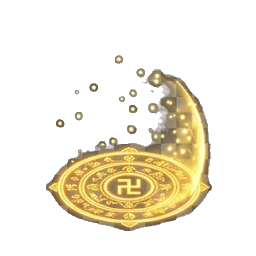
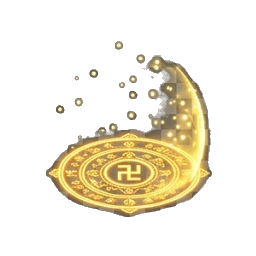
Use frame 4 exclusively with continuous rotation tween for La Han Tran aura

diff --git a/src/game/player.js b/src/game/player.js
@@ -582,34 +582,31 @@ export class Player {
   }
 
   /**
-   * Display a looping animated formation circle under the character's feet.
+   * Display a continuously rotating formation circle (frame-4) under the character's feet.
    * Follows the character as they move and remains visible while the buff is active.
-   * @param {string} [key="vfx-la-han-tran"]
+   * @param {string} [key="vfx-la-han-tran-frame4"]
    */
-  showFormation(key = "vfx-la-han-tran") {
+  showFormation(key = "vfx-la-han-tran-frame4") {
     if (!this.visual || typeof this.scene?.add?.sprite !== "function") return;
-    if (this.scene.textures?.exists && !this.scene.textures.exists(key)) return;
 
-    const animKey = `${key}-loop`;
-    if (this.scene.anims && !this.scene.anims.exists(animKey)) {
-      const texture = this.scene.textures?.get?.(key);
-      const frameTotal = texture?.frameTotal ?? 5;
-      const frameCount = Math.max(1, frameTotal - 1);
-      const frames = this.scene.anims.generateFrameNumbers?.(key, { start: 0, end: frameCount - 1 });
-      if (frames && frames.length > 0) {
-        this.scene.anims.create({
-          key: animKey,
-          frames,
-          frameRate: 8,
-          repeat: -1
-        });
+    let textureKey = key;
+    let frame = undefined;
+    if (this.scene.textures?.exists) {
+      if (this.scene.textures.exists(key)) {
+        textureKey = key;
+      } else if (this.scene.textures.exists("vfx-la-han-tran-frame4")) {
+        textureKey = "vfx-la-han-tran-frame4";
+      } else if (this.scene.textures.exists("vfx-la-han-tran")) {
+        textureKey = "vfx-la-han-tran";
+        frame = 3;
+      } else {
+        return;
       }
     }
 
     if (!this.formationSprite) {
-      this.formationSprite = this.scene.add.sprite(0, HERO_FOOT_Y, key);
-      // Origin at center of the ground ellipse (X = 128/256 = 0.5, Y = 186.5/256 ≈ 0.7285)
-      this.formationSprite.setOrigin(0.5, 0.7285);
+      this.formationSprite = this.scene.add.sprite(0, HERO_FOOT_Y, textureKey, frame);
+      this.formationSprite.setOrigin(0.5, 0.5);
       this.formationSprite.setScale(0.8);
       // Place behind body rig so the character stands on top of the formation ring
       const bodyIndex = this.visual.getIndex ? this.visual.getIndex(this.body) : -1;
@@ -621,8 +618,17 @@ export class Player {
     }
 
     this.formationSprite.setVisible?.(true);
-    if (this.formationSprite.play && (!this.formationSprite.anims?.isPlaying || this.formationSprite.anims?.currentAnim?.key !== animKey)) {
-      this.formationSprite.play(animKey, true);
+
+    if (!this.formationTween && this.scene?.tweens?.add) {
+      this.formationTween = this.scene.tweens.add({
+        targets: this.formationSprite,
+        angle: 360,
+        duration: 8000,
+        repeat: -1,
+        ease: "Linear"
+      });
+    } else if (this.formationTween?.isPaused?.()) {
+      this.formationTween.resume?.();
     }
   }
 
@@ -632,11 +638,18 @@ export class Player {
   hideFormation() {
     if (this.formationSprite) {
       this.formationSprite.setVisible?.(false);
-      this.formationSprite.stop?.();
+      this.formationSprite.setAngle?.(0);
+    }
+    if (this.formationTween) {
+      this.formationTween.pause?.();
     }
   }
 
   destroy() {
+    if (this.formationTween) {
+      this.formationTween.stop?.();
+      this.formationTween = null;
+    }
     if (this.formationSprite) {
       this.formationSprite.destroy?.();
       this.formationSprite = null;

diff --git a/src/game/remotePlayer.js b/src/game/remotePlayer.js
@@ -253,32 +253,30 @@ export class RemotePlayer {
   }
 
   /**
-   * Display a looping animated formation circle under the peer's feet.
-   * @param {string} [key="vfx-la-han-tran"]
+   * Display a continuously rotating formation circle (frame-4) under the peer's feet.
+   * @param {string} [key="vfx-la-han-tran-frame4"]
    */
-  showFormation(key = "vfx-la-han-tran") {
+  showFormation(key = "vfx-la-han-tran-frame4") {
     if (!this.container || typeof this.scene?.add?.sprite !== "function") return;
-    if (this.scene.textures?.exists && !this.scene.textures.exists(key)) return;
 
-    const animKey = `${key}-loop`;
-    if (this.scene.anims && !this.scene.anims.exists(animKey)) {
-      const texture = this.scene.textures?.get?.(key);
-      const frameTotal = texture?.frameTotal ?? 5;
-      const frameCount = Math.max(1, frameTotal - 1);
-      const frames = this.scene.anims.generateFrameNumbers?.(key, { start: 0, end: frameCount - 1 });
-      if (frames && frames.length > 0) {
-        this.scene.anims.create({
-          key: animKey,
-          frames,
-          frameRate: 8,
-          repeat: -1
-        });
+    let textureKey = key;
+    let frame = undefined;
+    if (this.scene.textures?.exists) {
+      if (this.scene.textures.exists(key)) {
+        textureKey = key;
+      } else if (this.scene.textures.exists("vfx-la-han-tran-frame4")) {
+        textureKey = "vfx-la-han-tran-frame4";
+      } else if (this.scene.textures.exists("vfx-la-han-tran")) {
+        textureKey = "vfx-la-han-tran";
+        frame = 3;
+      } else {
+        return;
       }
     }
 
     if (!this.formationSprite) {
-      this.formationSprite = this.scene.add.sprite(0, HERO_FOOT_Y, key);
-      this.formationSprite.setOrigin(0.5, 0.7285);
+      this.formationSprite = this.scene.add.sprite(0, HERO_FOOT_Y, textureKey, frame);
+      this.formationSprite.setOrigin(0.5, 0.5);
       this.formationSprite.setScale(0.8);
       const bodyIndex = this.container.getIndex ? this.container.getIndex(this.body) : -1;
       if (bodyIndex >= 0 && this.container.addAt) {
@@ -289,8 +287,17 @@ export class RemotePlayer {
     }
 
     this.formationSprite.setVisible?.(true);
-    if (this.formationSprite.play && (!this.formationSprite.anims?.isPlaying || this.formationSprite.anims?.currentAnim?.key !== animKey)) {
-      this.formationSprite.play(animKey, true);
+
+    if (!this.formationTween && this.scene?.tweens?.add) {
+      this.formationTween = this.scene.tweens.add({
+        targets: this.formationSprite,
+        angle: 360,
+        duration: 8000,
+        repeat: -1,
+        ease: "Linear"
+      });
+    } else if (this.formationTween?.isPaused?.()) {
+      this.formationTween.resume?.();
     }
   }
 
@@ -300,11 +307,18 @@ export class RemotePlayer {
   hideFormation() {
     if (this.formationSprite) {
       this.formationSprite.setVisible?.(false);
-      this.formationSprite.stop?.();
+      this.formationSprite.setAngle?.(0);
+    }
+    if (this.formationTween) {
+      this.formationTween.pause?.();
     }
   }
 
   destroy() {
+    if (this.formationTween) {
+      this.formationTween.stop?.();
+      this.formationTween = null;
+    }
     if (this.formationSprite) {
       this.formationSprite.destroy?.();
       this.formationSprite = null;

diff --git a/src/game/player.test.js b/src/game/player.test.js
@@ -317,45 +317,50 @@ describe("Player movement controls", () => {
       setOrigin: vi.fn().mockReturnThis(),
       setScale: vi.fn().mockReturnThis(),
       setVisible: vi.fn().mockReturnThis(),
-      play: vi.fn().mockReturnThis(),
-      stop: vi.fn().mockReturnThis(),
-      destroy: vi.fn(),
-      anims: { isPlaying: false, currentAnim: null }
+      setAngle: vi.fn().mockReturnThis(),
+      destroy: vi.fn()
     };
     mockScene.add.sprite = vi.fn(() => formationSprite);
     mockScene.textures = {
-      exists: vi.fn(() => true),
-      get: vi.fn(() => ({ frameTotal: 5 }))
+      exists: vi.fn(() => true)
     };
-    mockScene.anims = {
-      exists: vi.fn(() => false),
-      create: vi.fn(),
-      generateFrameNumbers: vi.fn(() => [0, 1, 2, 3])
+    const mockTween = {
+      isPaused: vi.fn(() => false),
+      resume: vi.fn(),
+      pause: vi.fn(),
+      stop: vi.fn()
+    };
+    mockScene.tweens = {
+      add: vi.fn(() => mockTween)
     };
 
-    player.showFormation("vfx-la-han-tran");
+    player.showFormation("vfx-la-han-tran-frame4");
 
-    expect(mockScene.anims.create).toHaveBeenCalledWith(
-      expect.objectContaining({
-        key: "vfx-la-han-tran-loop",
-        frameRate: 8,
-        repeat: -1
-      })
-    );
-    expect(mockScene.add.sprite).toHaveBeenCalledWith(0, 41, "vfx-la-han-tran");
-    expect(formationSprite.setOrigin).toHaveBeenCalledWith(0.5, 0.7285);
+    expect(mockScene.add.sprite).toHaveBeenCalledWith(0, 41, "vfx-la-han-tran-frame4", undefined);
+    expect(formationSprite.setOrigin).toHaveBeenCalledWith(0.5, 0.5);
     expect(formationSprite.setScale).toHaveBeenCalledWith(0.8);
     expect(formationSprite.setVisible).toHaveBeenCalledWith(true);
-    expect(formationSprite.play).toHaveBeenCalledWith("vfx-la-han-tran-loop", true);
+    expect(mockScene.tweens.add).toHaveBeenCalledWith(
+      expect.objectContaining({
+        targets: formationSprite,
+        angle: 360,
+        duration: 8000,
+        repeat: -1,
+        ease: "Linear"
+      })
+    );
 
-    // hideFormation stops and hides
+    // hideFormation pauses tween and hides
     player.hideFormation();
     expect(formationSprite.setVisible).toHaveBeenCalledWith(false);
-    expect(formationSprite.stop).toHaveBeenCalled();
+    expect(formationSprite.setAngle).toHaveBeenCalledWith(0);
+    expect(mockTween.pause).toHaveBeenCalled();
 
-    // destroy tears down formationSprite
+    // destroy tears down formationSprite and tween
     player.destroy();
     expect(formationSprite.destroy).toHaveBeenCalled();
+    expect(mockTween.stop).toHaveBeenCalled();
     expect(player.formationSprite).toBeNull();
+    expect(player.formationTween).toBeNull();
   });
 });

diff --git a/src/game/skills.js b/src/game/skills.js
@@ -73,13 +73,12 @@ const THIEU_LAM_SKILLS = [
       { kind: "buff", stat: "critRate", amount: 0.05, duration: 180000 }
     ],
     vfx: {
-      sprite: "vfx-la-han-tran",
+      sprite: "vfx-la-han-tran-frame4",
       type: "formation",
       cast: "shockwave",
       impact: null,
       color: 0xffd166,
       shake: 0,
-      fps: 8,
       scale: 0.8
     }
   }

diff --git a/src/game/game.js b/src/game/game.js
@@ -97,6 +97,9 @@ export class JiangHuScene extends Phaser.Scene {
         frameHeight: 256
       });
     }
+    if (!this.textures.exists("vfx-la-han-tran-frame4")) {
+      this.load.image("vfx-la-han-tran-frame4", "/skills/vfx/la_han_tran/frame-4.png");
+    }
   }
 
   create() {
